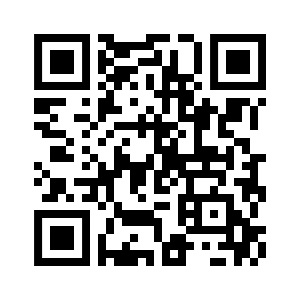
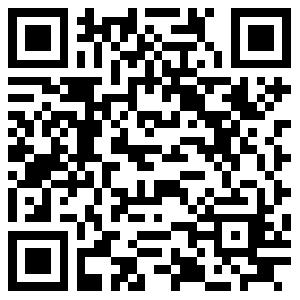
Update the qr-code and put images side by side

diff --git a/README.md b/README.md
@@ -25,10 +25,14 @@ The fullscreen mode works best on android paired with chrome. After you've opene
 <img src="documentation/uploads/qr-code.png" width="300" />
 
 ## Screenshots
+<p float="left">
 <img src="documentation/uploads/screenshots/lvl4.gif" width="270" />
 <img src="documentation/uploads/screenshots/lvl7.gif" width="270" />
 <img src="documentation/uploads/screenshots/lvl8.gif" width="270" />
+</p>
 
 #### 
+<p float="left">
 <img src="documentation/uploads/screenshots/home.jpg" width="270" />
 <img src="documentation/uploads/screenshots/credits.jpg" width="270" />
+</p>
